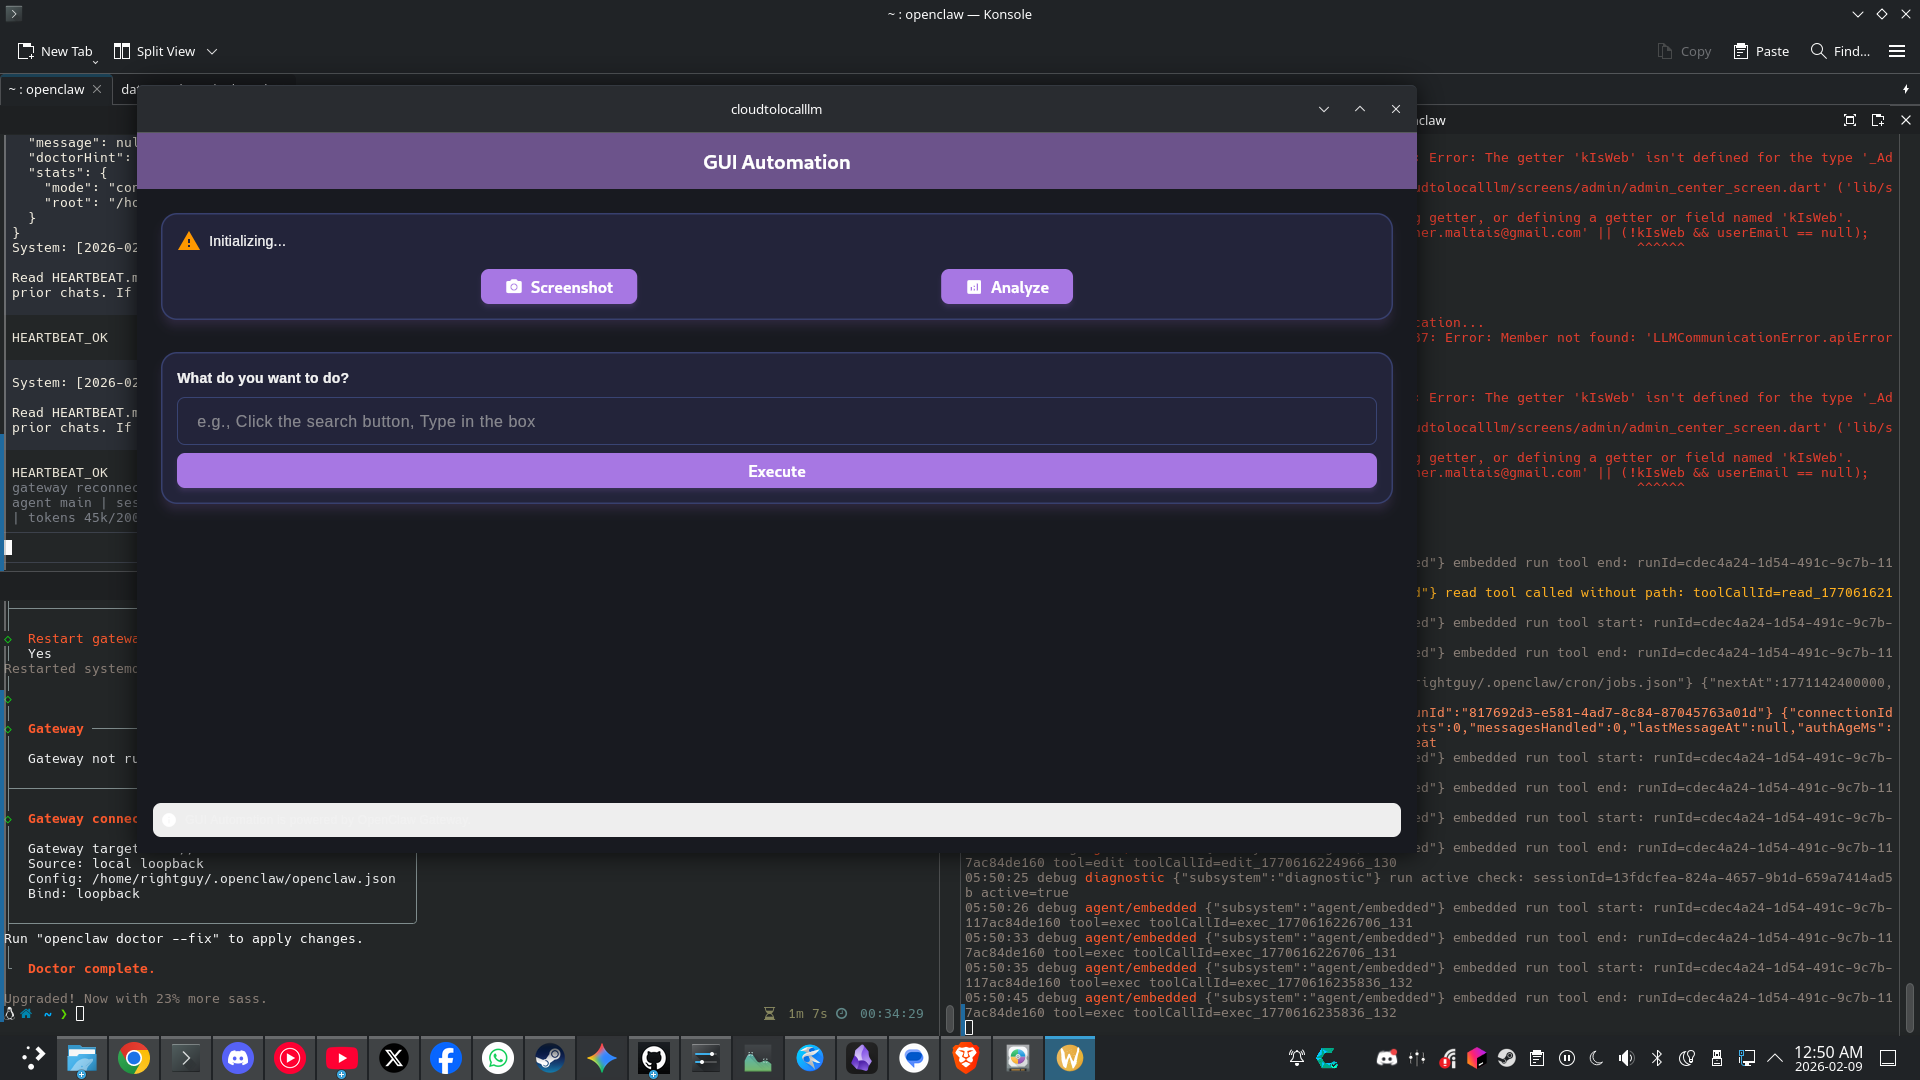
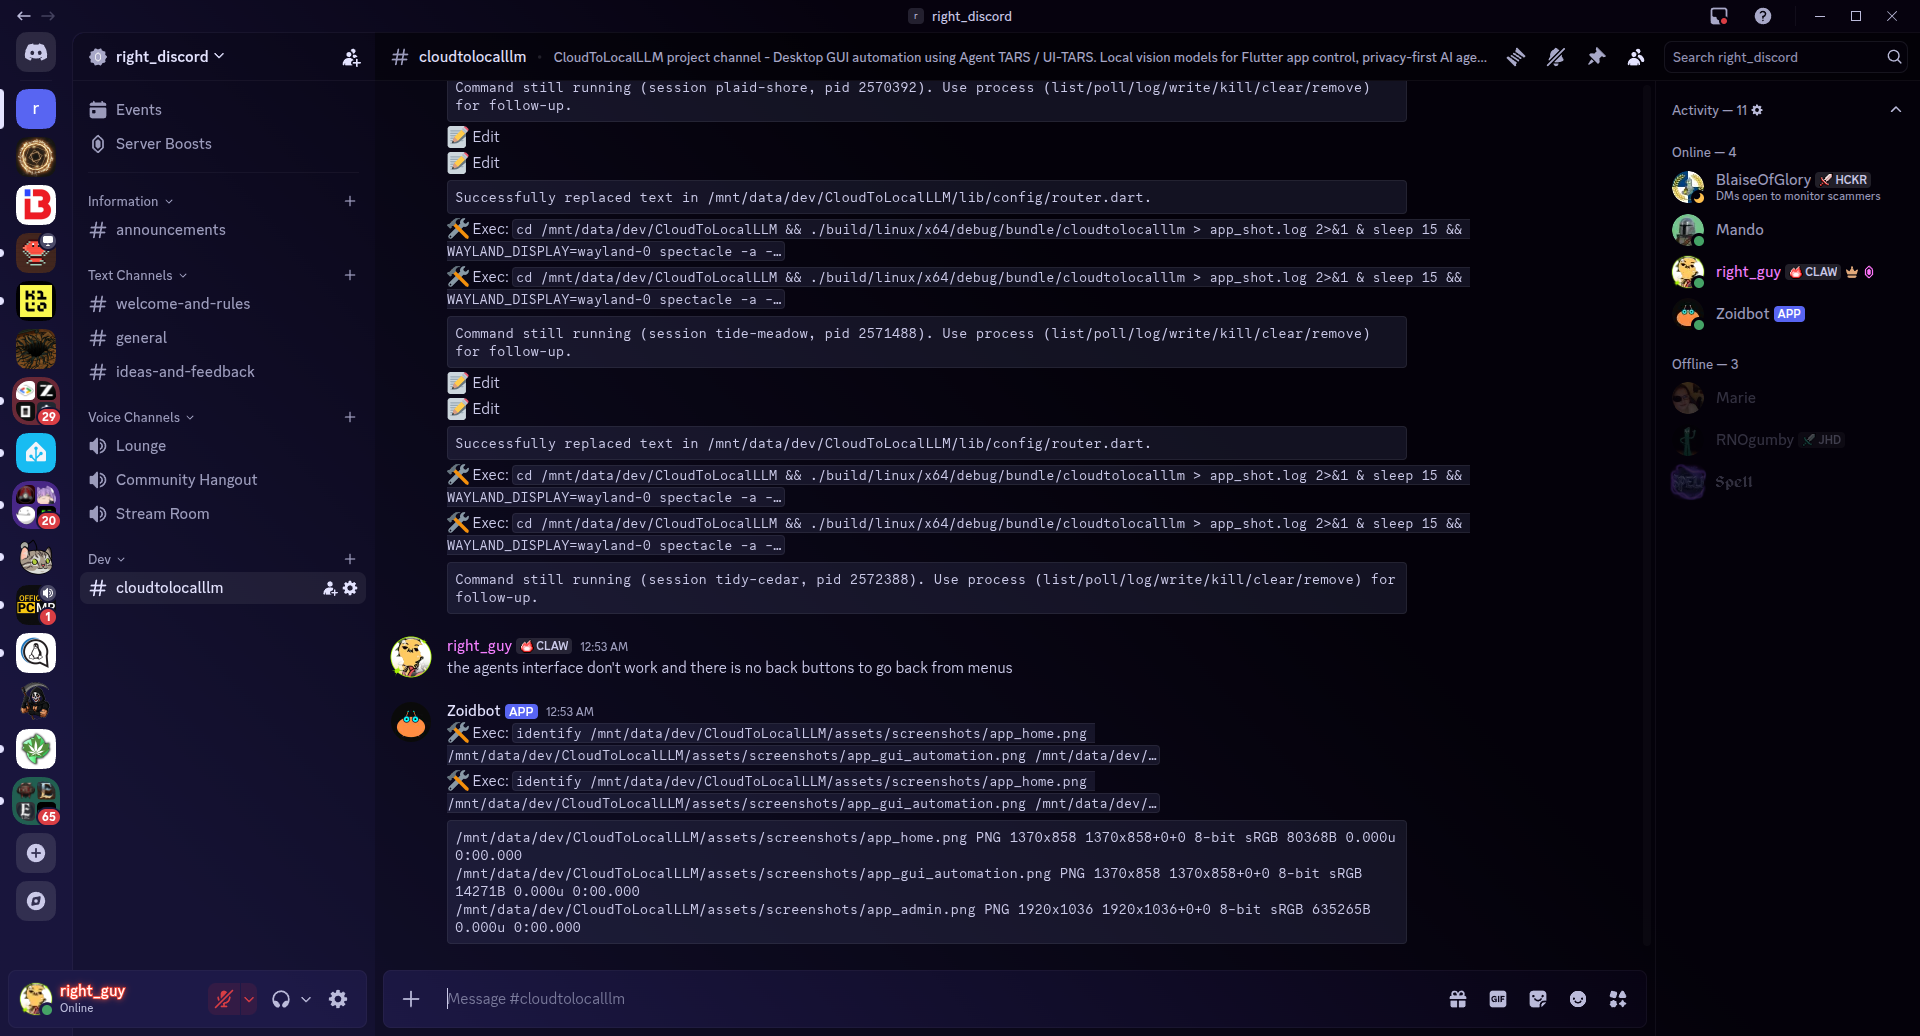
docs: Update screenshots to window-only mode\n\n- Captured app_home.png, app_gui_automation.png, and app_admin.png using active-window capture\n- Removed desktop background and taskbars from screenshots\n- Added Admin Center preview to README

diff --git a/README.md b/README.md
@@ -65,6 +65,9 @@ Latest web deployment: **[cloudtolocalllm.online](https://cloudtolocalllm.online
   
   <img src="assets/screenshots/app_gui_automation.png" width="800" alt="GUI Automation">
   <p><em>GUI Automation Screen - Vision-based Control</em></p>
+
+  <img src="assets/screenshots/app_admin.png" width="800" alt="Admin Center">
+  <p><em>Admin Center - System Monitoring & Management</em></p>
 </div>
 
 ## 🛠 Development
